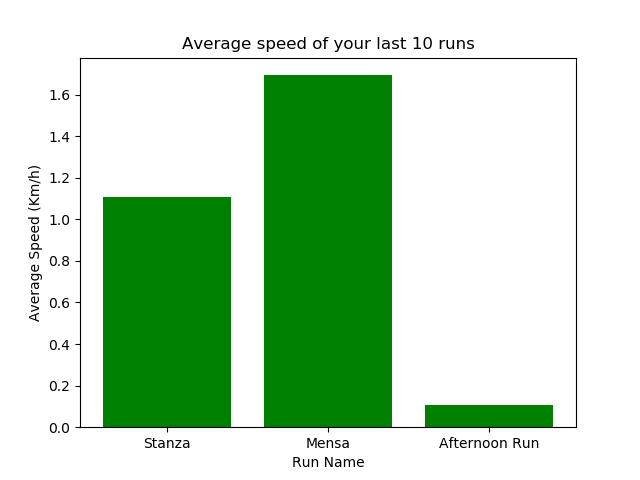
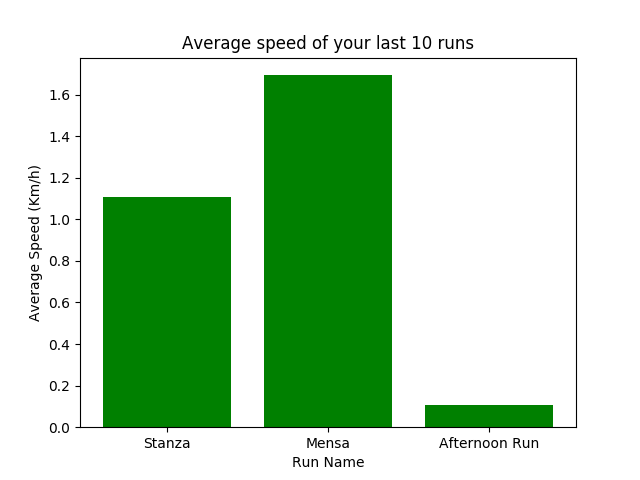
Fixed matplotlib issues related to tkinter by avoiding usage of tkinter

diff --git a/monolith/views/statistics.py b/monolith/views/statistics.py
@@ -4,6 +4,11 @@ from monolith.auth import current_user, login_required
 from enum import Enum
 
 #daniele: new dependencies added!
+
+
+import matplotlib
+#avoid usage of tkinter that led to severe compatibility issues in python3.7
+matplotlib.use('agg')
 import matplotlib.pyplot as plt
 
 
